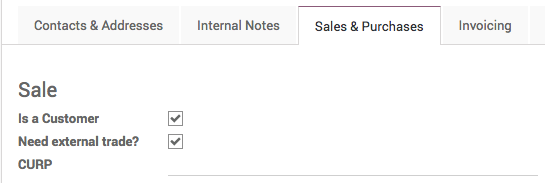
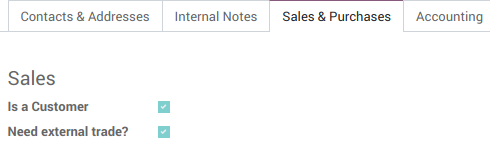
[IMP] l10n_mx_edi_external_trade: remove CURP field references
The CURP field was added to the l10n_mx_edi module. Because of that,
it's necessary:

- Remove this field in view to don't add it twice, and

- Remove the reference in README file in the section of new fields
added.

diff --git a/l10n_mx_edi_external_trade/README.rst b/l10n_mx_edi_external_trade/README.rst
@@ -91,10 +91,6 @@ defined by the SAT.
 
 - In the partner:
 
-  - **CURP**: It is used to store the unique Key of the Register of
-    Population (CURP) of the issuer of the CFDI. When it is a natural
-    person, it must contain 18 characters.
-
   - **Need external trade?**: Field used to indicate if the customer needs
     their invoices with external complement. If the field is equal to True,
     then the add-on is added to the CFDIs for this client.
